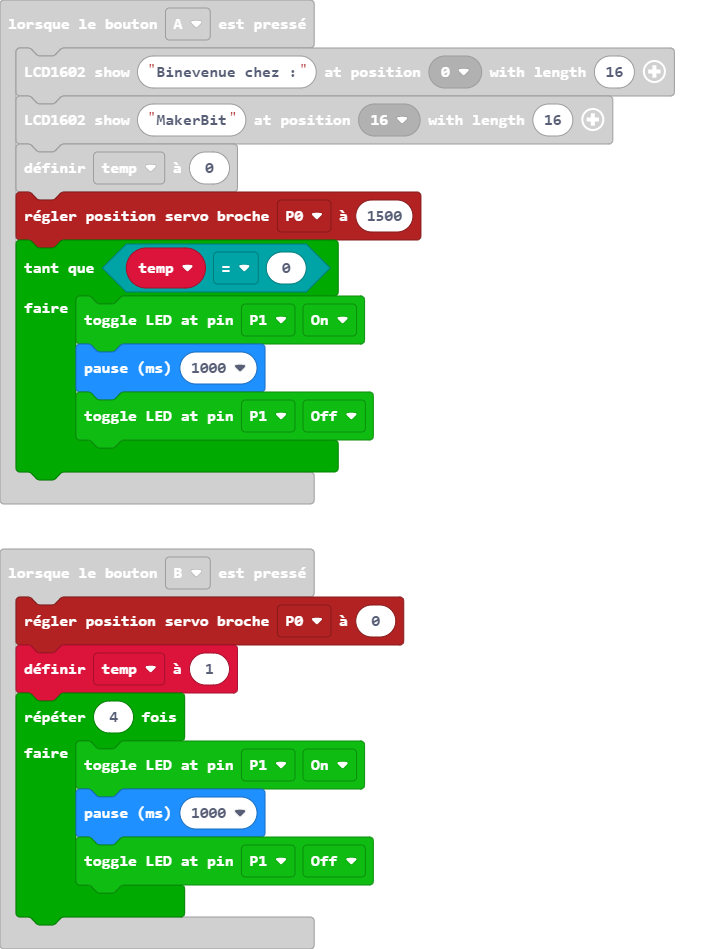
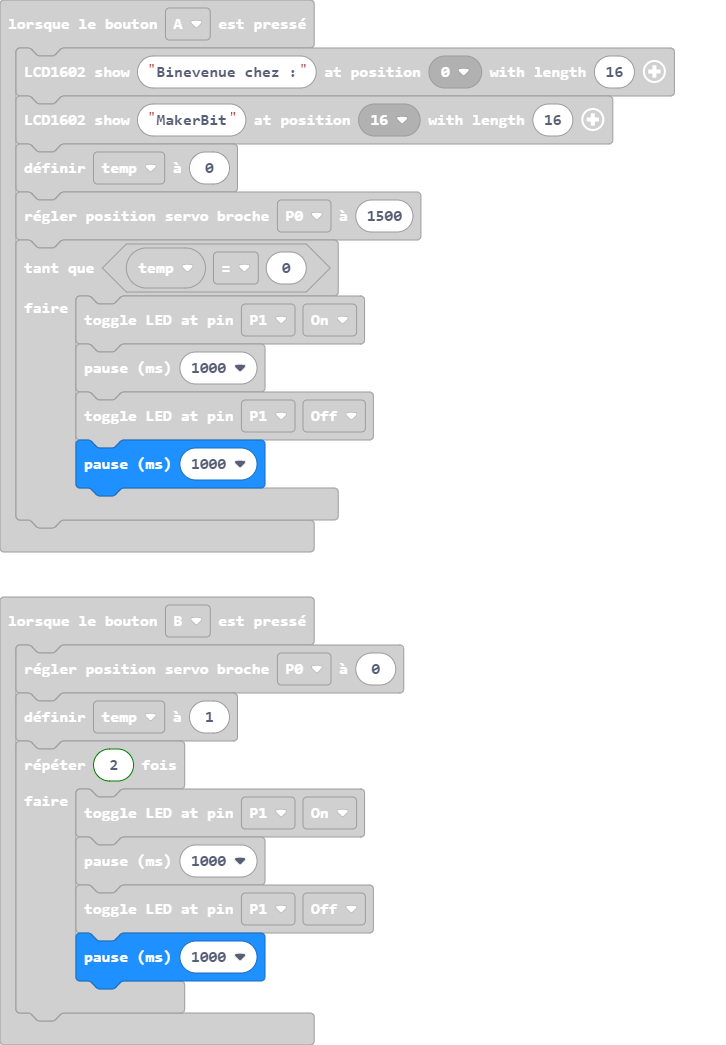
Correction LED

diff --git a/main.ts b/main.ts
@@ -8,15 +8,17 @@ input.onButtonPressed(Button.A, function () {
         tinkercademy.LED(DigitalPin.P1, OnOff.On)
         basic.pause(1000)
         tinkercademy.LED(DigitalPin.P1, OnOff.Off)
+        basic.pause(1000)
     }
 })
 input.onButtonPressed(Button.B, function () {
     pins.servoWritePin(AnalogPin.P0, 0)
     temp = 1
-    for (let index = 0; index < 4; index++) {
+    for (let index = 0; index < 2; index++) {
         tinkercademy.LED(DigitalPin.P1, OnOff.On)
         basic.pause(1000)
         tinkercademy.LED(DigitalPin.P1, OnOff.Off)
+        basic.pause(1000)
     }
 })
 basic.forever(function () {
